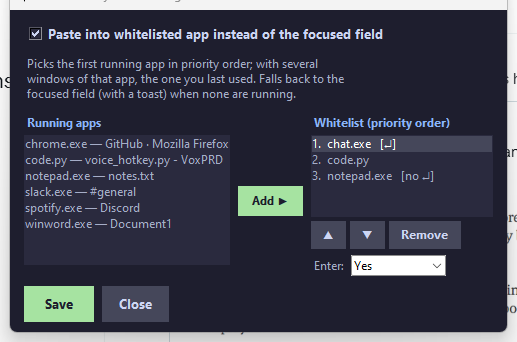
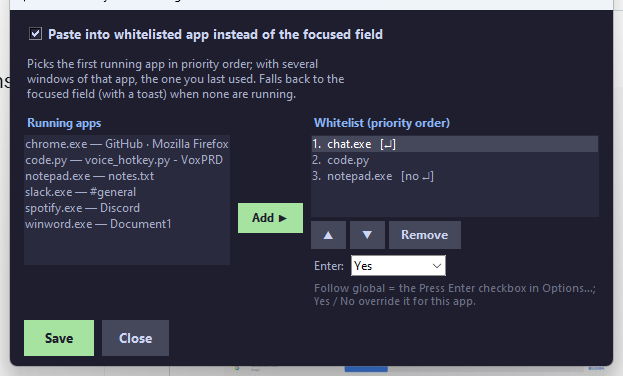
Paste Target: hint text under the Enter override

Changed region(s): [[0.0, 0.0, 1.0, 1.0], [0.2785, 0.0, 0.3714, 0.0292], [0.1547, 0.0, 0.2166, 0.0292]]

diff --git a/voice_hotkey.py b/voice_hotkey.py
@@ -2501,6 +2501,10 @@ def main() -> None:
         entry_enter_var = tk.StringVar(value="Follow global")
         ttk.Combobox(erow, state="readonly", width=12, textvariable=entry_enter_var,
                      values=list(ENTER_VALUE)).pack(side="left")
+        tk.Label(right, text="Follow global = the Press Enter checkbox in Options…;\n"
+                             "Yes / No override it for this app.",
+                 font=("Segoe UI", 8), fg="#6C7086", bg="#1E1E2E",
+                 justify="left", anchor="w").pack(anchor="w", pady=(2, 0))
         entry_enter_var.trace_add("write", lambda *_: _apply_enter())
 
         btns = tk.Frame(frame, bg="#1E1E2E")
